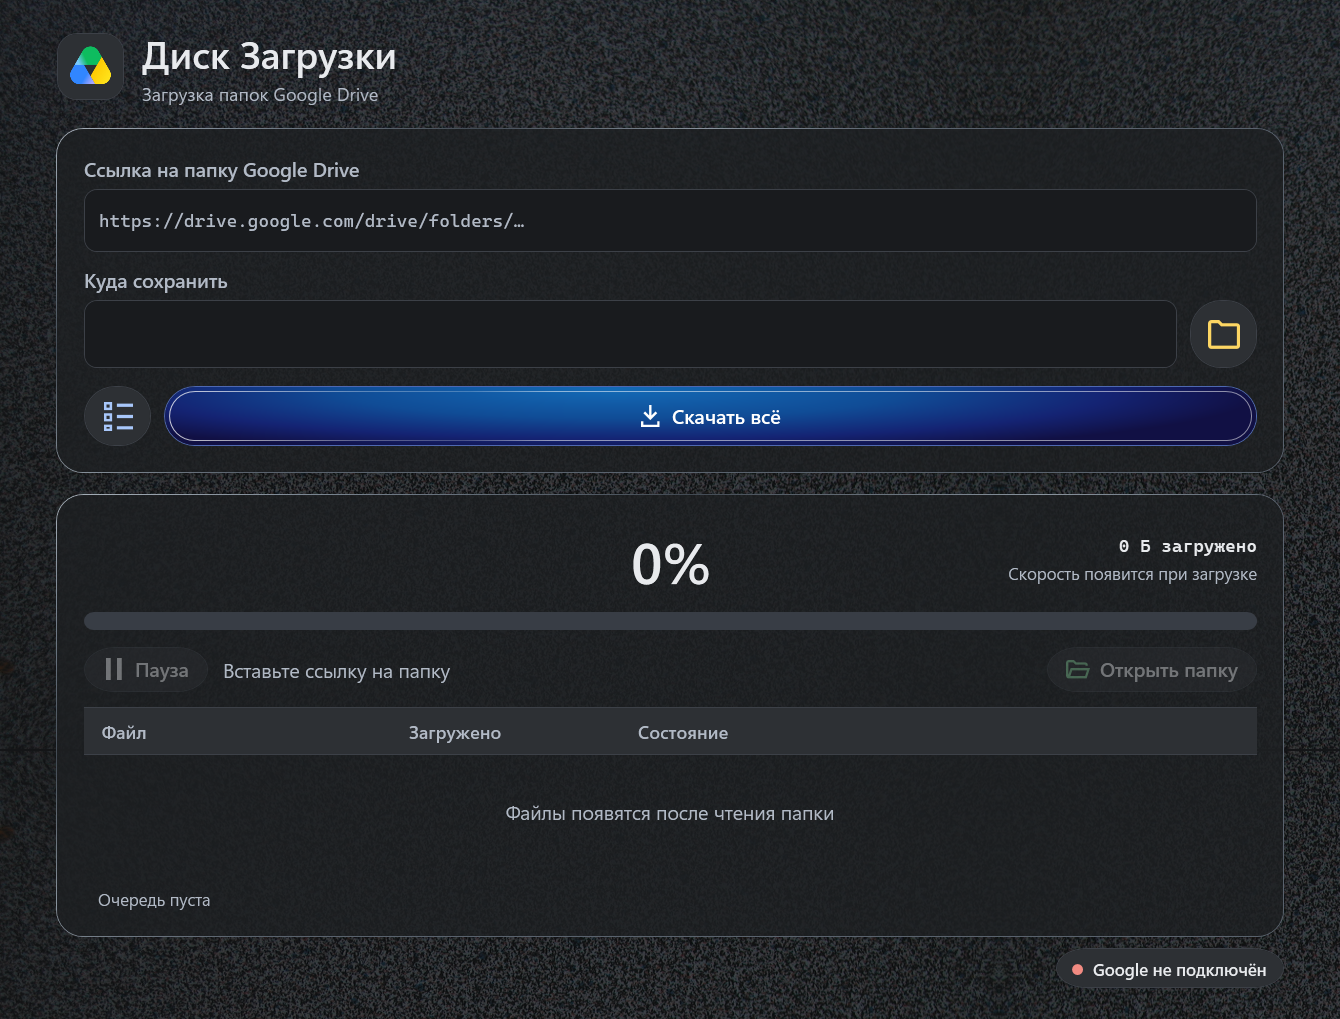
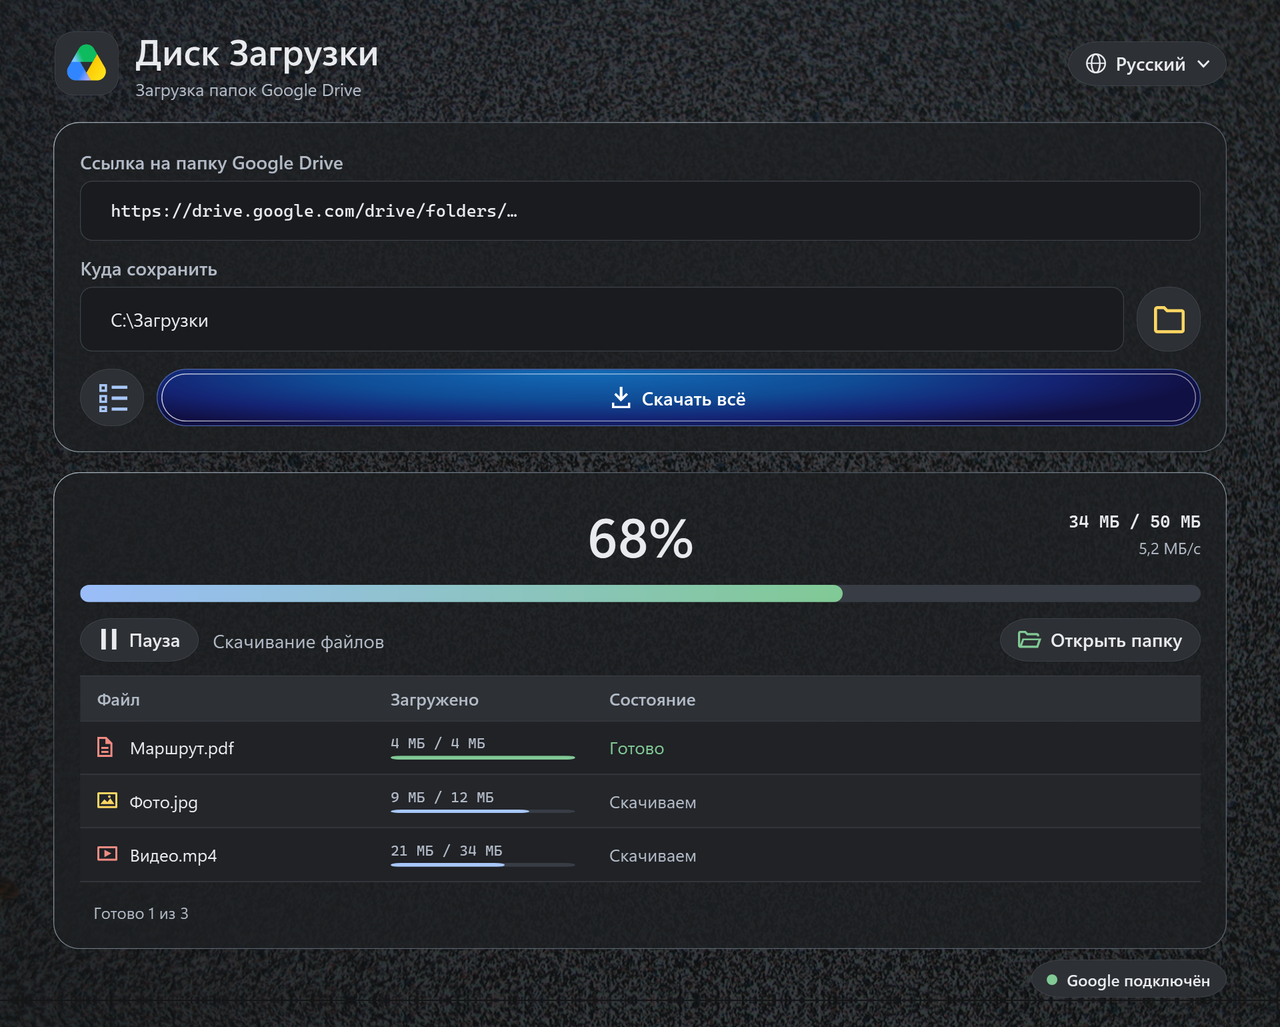
docs: обновить оформление и быстрый старт Диска Загрузки

diff --git a/README.md b/README.md
@@ -1,58 +1,45 @@
-![Файлы из облака попадают в жёлтую папку на ноутбуке](docs/images/readme-cover.jpg)
+<h1 align="center">
+  <img src="docs/images/readme-cover.jpg" alt="Диск Загрузки — папки Google Drive на вашем компьютере" width="960">
+</h1>
 
-# Диск Загрузки
-
-**Скачивайте папки с Google Drive на Windows.** Можно забрать всё сразу или выбрать нужные файлы галочками. Если интернет пропадёт, загрузчик попробует продолжить с места обрыва.
-
-[🚀 Быстрый старт](#быстрый-старт) · [💻 Установка](#установка) · [🔑 Подключение Google Drive](#подключение-google-drive) · [📥 Загрузка файлов](#загрузка-файлов) · [🛟 Помощь](#решение-проблем) · [📜 Лицензия](#лицензия)
-
-## Быстрый старт
-
-![Три шага: вставить ссылку, отметить файлы и скачать их в папку на компьютере](docs/images/readme-steps.jpg)
-
-1. 🔗 **Вставьте ссылку** на папку Google Drive.
-2. ✅ **Выберите папку на ПК и файлы.** Жёлтая иконка открывает выбор папки, синяя — список файлов с галочками.
-3. 📂 **Начните скачивание.** Нажмите **Скачать всё** или **Скачать выбранное**, если отметили только нужные файлы.
-
-💡 **Открываете программу впервые?** Сначала [установите её](#установка), затем [подключите Google Drive](#подключение-google-drive). После входа статус внизу справа станет зелёным.
-
-<details>
-<summary>🖼 Посмотреть главное окно</summary>
-
-![Главное окно «Диск Загрузки» с полями ссылки, назначения и кнопками выбора](docs/screenshots/app-main.png)
-
-</details>
+<div align="center">
+  <p>Скачивайте папки Google Drive целиком или выбирайте отдельные файлы. Загрузчик сохраняет структуру папок и продолжает передачу после обрыва связи, если файл поддерживает докачку.</p>
+  <img src="https://img.shields.io/badge/Windows-x64-2563eb" alt="Windows x64">
+  <img src="https://img.shields.io/badge/UI-WPF-6d4ac4" alt="Интерфейс WPF">
+  <a href="https://github.com/Mikhail-068/Gdisk_download/releases/tag/v1.0.0"><img src="https://img.shields.io/badge/release-v1.0.0-2b8a62" alt="Релиз v1.0.0"></a>
+  <p><strong><a href="https://github.com/Mikhail-068/Gdisk_download/releases/download/v1.0.0/DriveDownload-Setup-x64.exe">↓ Скачать установщик для Windows x64</a></strong></p>
+  <p><a href="#установка">Установка</a> · <a href="#подключение-google-drive">Подключение Google Drive</a> · <a href="#загрузка-файлов">Загрузка файлов</a> · <a href="#решение-проблем">Помощь</a> · <a href="#лицензия">Лицензия</a></p>
+</div>
 
 ## Установка
 
-⬇ **[Скачать установщик для Windows x64](https://github.com/Mikhail-068/Gdisk_download/releases/latest)**
+Запустите **`DriveDownload-Setup-x64.exe`** на Windows 10 или 11 x64. Среда .NET входит в комплект. Мастер работает для текущего пользователя, поэтому права администратора не нужны. После установки откройте **Диск Загрузки** из меню «Пуск».
 
-💻 Подойдёт компьютер с **Windows 10 или 11 x64**. Среда .NET уже в комплекте. Интернет понадобится для входа в Google и скачивания файлов.
-
-- 📦 **С установщиком.** Запустите `DriveDownload-Setup-x64.exe` и следуйте мастеру. Права администратора не нужны. После установки ищите **Диск Загрузки** в меню «Пуск».
-- ⚡ **Переносимая версия.** Запустите `DriveDownload.exe` двойным щелчком.
-
-Готовые файлы после [сборки](#сборка-из-исходников) находятся в папке `release`.
+[Страница выпуска v1.0.0](https://github.com/Mikhail-068/Gdisk_download/releases/tag/v1.0.0) · [Контрольная сумма SHA-256](https://github.com/Mikhail-068/Gdisk_download/releases/download/v1.0.0/SHA256SUMS.txt)
 
 <details>
-<summary>📁 Куда устанавливается программа и как её удалить</summary>
+<summary>Папка установки, удаление и переносимый EXE</summary>
 
-Папка по умолчанию — `%LOCALAPPDATA%\Programs\DriveDownload`. Удалить программу можно в **Параметры Windows → Приложения**. Загруженные файлы и настройки хранятся отдельно.
+- Папка по умолчанию — `%LOCALAPPDATA%\Programs\DriveDownload`. Для удаления откройте **Параметры Windows → Приложения**. Скачанные файлы и настройки хранятся отдельно.
+- `DriveDownload.exe` для прямого запуска можно получить [сборкой из исходников](#сборка-из-исходников). Он появится в папке `release`.
 
 </details>
 
 ## Подключение Google Drive
 
-Выберите способ по тому, **кто может открыть вашу папку**.
+Для первого запуска понадобится собственный проект Google Cloud с включённым **Google Drive API**. Выберите способ подключения по тому, кто может открыть папку.
 
-- 🔒 **Папка личная или открыта конкретным людям.** [Войдите через Google с OAuth Desktop](#вход-через-google-с-oauth-desktop).
-- 🌍 **Папку открывает любой, у кого есть ссылка.** Используйте [ключ API](#подключение-по-ключу-api) или войдите через Google.
+| Доступ к папке | Что использовать |
+| --- | --- |
+| Доступ есть у вашего аккаунта или у конкретных людей | Вход через Google с OAuth Desktop |
+| Файлы видны всем, у кого есть ссылка | Ключ API или вход через Google |
 
-### Вход через Google с OAuth Desktop
+<details>
+<summary>Вход через Google с OAuth Desktop</summary>
 
 🎯 Сначала проверьте в браузере, что нужная папка открывается под вашим Google-аккаунтом. **Именно этот аккаунт выбирайте при входе в загрузчик.** Настраивать проект Google Cloud может другой аккаунт.
 
-#### 1⃣ Включите Google Drive API
+### Включите Google Drive API
 
 1. Откройте Google Cloud Console. В верхней панели выберите проект или создайте новый, например **Диск Загрузки**. [Открыть Google Cloud Console](https://console.cloud.google.com/)
 2. Перейдите в **APIs & Services → Library → Google Drive API** и нажмите **Enable**. Если уже видите **Enabled**, шаг готов. [Открыть страницу Drive API](https://console.cloud.google.com/apis/library/drive.googleapis.com)
@@ -61,7 +48,7 @@
   <img src="docs/screenshots/01-google-drive-api.png" alt="У Google Drive API показан статус Enabled" width="760">
 </p>
 
-#### 2⃣ Настройте экран входа
+### Настройте экран входа
 
 В том же проекте откройте **Google Auth Platform → Branding → Get Started**. Затем заполните три блока.
 
@@ -76,7 +63,7 @@
 
 </details>
 
-#### 3⃣ Добавьте себя в Test users
+### Добавьте себя в Test users
 
 Этот шаг нужен, если в **Audience** указаны **External** и **Testing**.
 
@@ -88,7 +75,7 @@
   <img src="docs/screenshots/03-oauth-test-users.png" alt="Внизу страницы Audience в разделе Test users расположена кнопка Add users" width="485">
 </p>
 
-#### 4⃣ Разрешите чтение файлов
+### Разрешите чтение файлов
 
 Откройте **Google Auth Platform → Data Access → Add or remove scopes**, добавьте строку ниже и сохраните изменения.
 
@@ -98,7 +85,7 @@ https://www.googleapis.com/auth/drive.readonly
 
 Так загрузчик сможет читать список файлов и скачивать то, что доступно вашему аккаунту. [Разрешения Drive API](https://developers.google.com/workspace/drive/api/guides/api-specific-auth)
 
-#### 5⃣ Скачайте файл для входа
+### Скачайте файл для входа
 
 1. Перейдите в **Google Auth Platform → Clients → Create client**. Если вы на странице **Overview**, кнопка называется **Create OAuth client**.
 2. В **Application type** выберите **Desktop app**. Введите любое понятное имя, например **Диск Загрузки**, и нажмите **Create**.
@@ -111,7 +98,7 @@ https://www.googleapis.com/auth/drive.readonly
 
 </details>
 
-#### 6⃣ Войдите в загрузчик
+### Войдите в загрузчик
 
 1. Нажмите 🔴 **Google не подключён** справа внизу окна.
 2. Выберите **Выбрать JSON и войти**, затем укажите файл из предыдущего шага.
@@ -127,7 +114,10 @@ https://www.googleapis.com/auth/drive.readonly
 
 🔐 Приложение хранит данные подключения в `%LOCALAPPDATA%\DriveDownload` в зашифрованном виде для текущего пользователя Windows. На другом ПК войдите в Google через загрузчик заново.
 
-### Подключение по ключу API
+</details>
+
+<details>
+<summary>Подключение по ключу API</summary>
 
 🌍 Откройте ссылку на папку в приватном окне браузера без входа в Google. Если видите файлы, попробуйте этот способ.
 
@@ -136,9 +126,7 @@ https://www.googleapis.com/auth/drive.readonly
 3. В загрузчике нажмите индикатор Google внизу справа, вставьте ключ в нижнее поле и нажмите **Использовать ключ API**.
 4. При статусе **Доступ по ключу API** откройте список файлов по ссылке, чтобы проверить ключ. [Справка по ключам API](https://developers.google.com/workspace/guides/create-credentials#api-key)
 
-## Язык интерфейса
-
-🌐 Нажмите кнопку с глобусом в правом верхнем углу и выберите **Русский** или **English**. Интерфейс переключается сразу, в том числе во время загрузки. Программа запоминает выбор для следующего запуска.
+</details>
 
 ## Загрузка файлов
 
@@ -146,6 +134,19 @@ https://www.googleapis.com/auth/drive.readonly
 2. 📁 Нажмите жёлтую иконку у поля **Куда сохранить** и выберите каталог.
 3. ✅ Нажмите **Скачать всё**. Если нужна только часть файлов, откройте список синей иконкой, расставьте галочки и нажмите **Скачать выбранное**.
 4. 🎉 Нажмите **Открыть папку**, когда захотите увидеть результат. В каталоге назначения появится подпапка с именем из Google Drive. Вложенные папки останутся на своих местах.
+
+<p align="center">
+  <img src="docs/screenshots/app-selection.png" alt="Окно выбора файлов. Отмечены PDF, фотография и видео, документ оставлен без галочки" width="780">
+</p>
+
+<details>
+<summary>Посмотреть очередь скачивания в главном окне</summary>
+
+![Главное окно загрузчика во время передачи трёх файлов. Видны общий прогресс, скорость и состояние каждого файла](docs/screenshots/app-main.png)
+
+</details>
+
+Снимки сделаны из текущих исходников на демонстрационных данных.
 
 ### Пауза и возобновление
 
@@ -164,6 +165,12 @@ https://www.googleapis.com/auth/drive.readonly
 Google Docs, Sheets, Slides и Drawings сохраняются как `.docx`, `.xlsx`, `.pptx` и `.pdf` соответственно. Если экспорт оборвался, следующая попытка начнётся с начала документа. [Справка Drive по скачиванию и экспорту](https://developers.google.com/workspace/drive/api/guides/manage-downloads)
 
 </details>
+
+## Язык интерфейса
+
+🌐 Нажмите кнопку с глобусом в правом верхнем углу и выберите **Русский** или **English**. Интерфейс переключается сразу, в том числе во время загрузки. Программа запоминает выбор для следующего запуска.
+
+Переключатель доступен в сборках из текущих исходников. Установщик v1.0.0 опубликован до добавления этой функции.
 
 ## Решение проблем
 
@@ -228,7 +235,7 @@ powershell -File installer/Build-Installer.ps1
 
 </details>
 
-[Архитектура](docs/architecture/README.md) · [Статус разработки](STATUS.md)
+[Архитектура](docs/architecture/README.md)
 
 ## Связь
 
